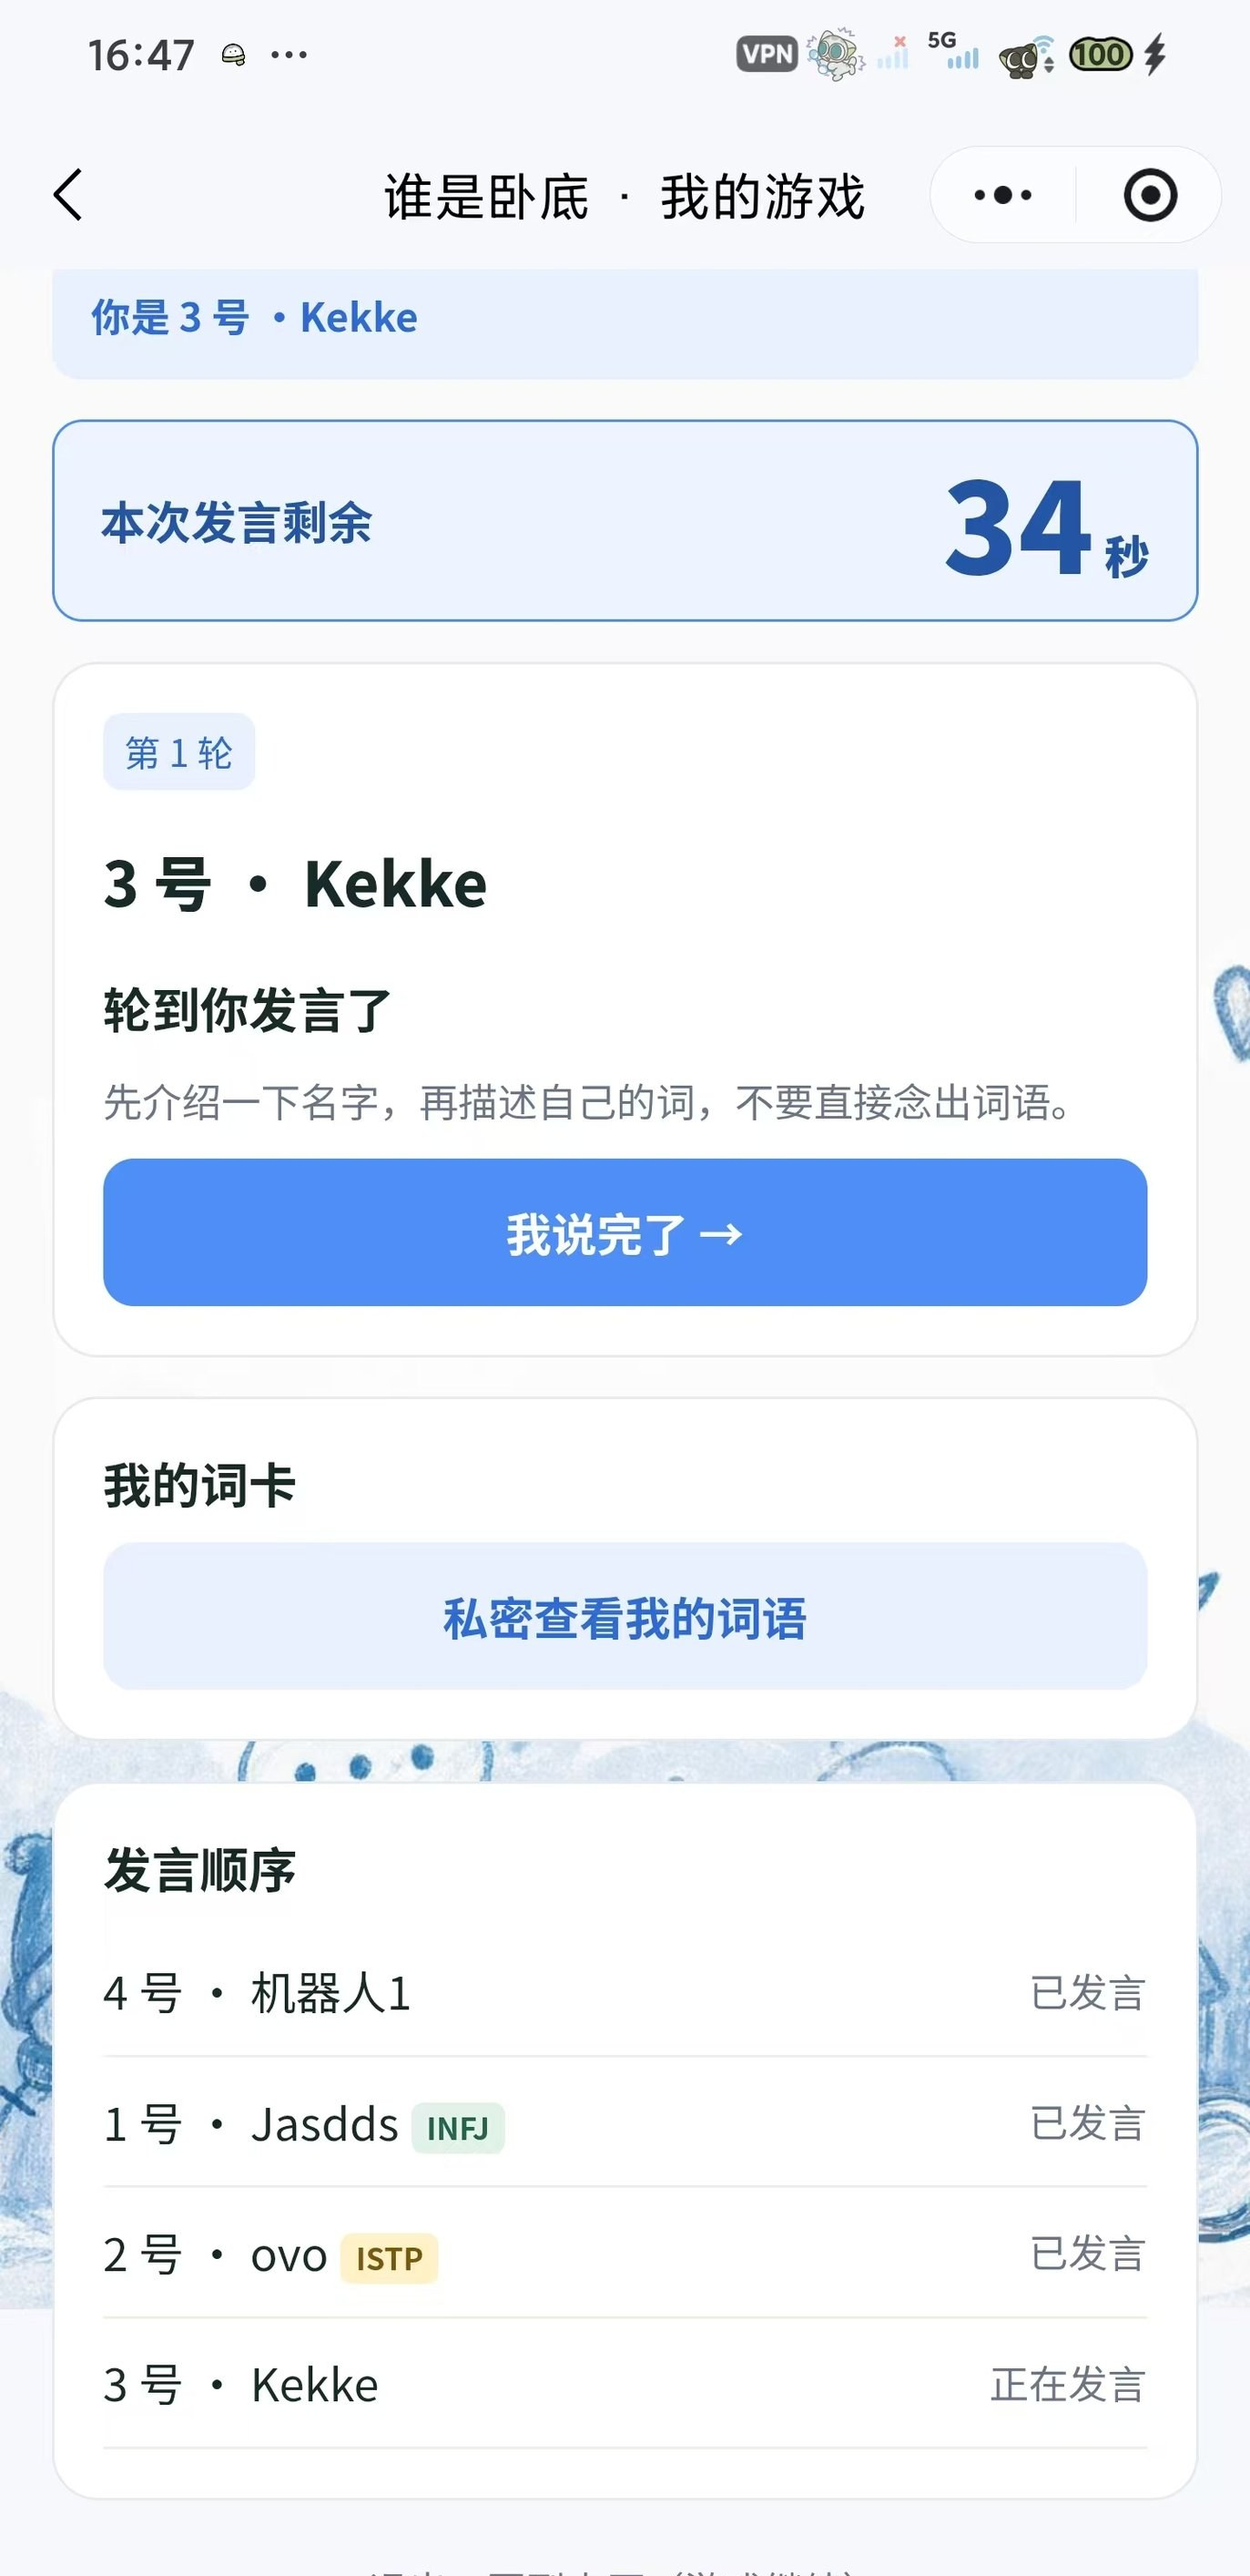
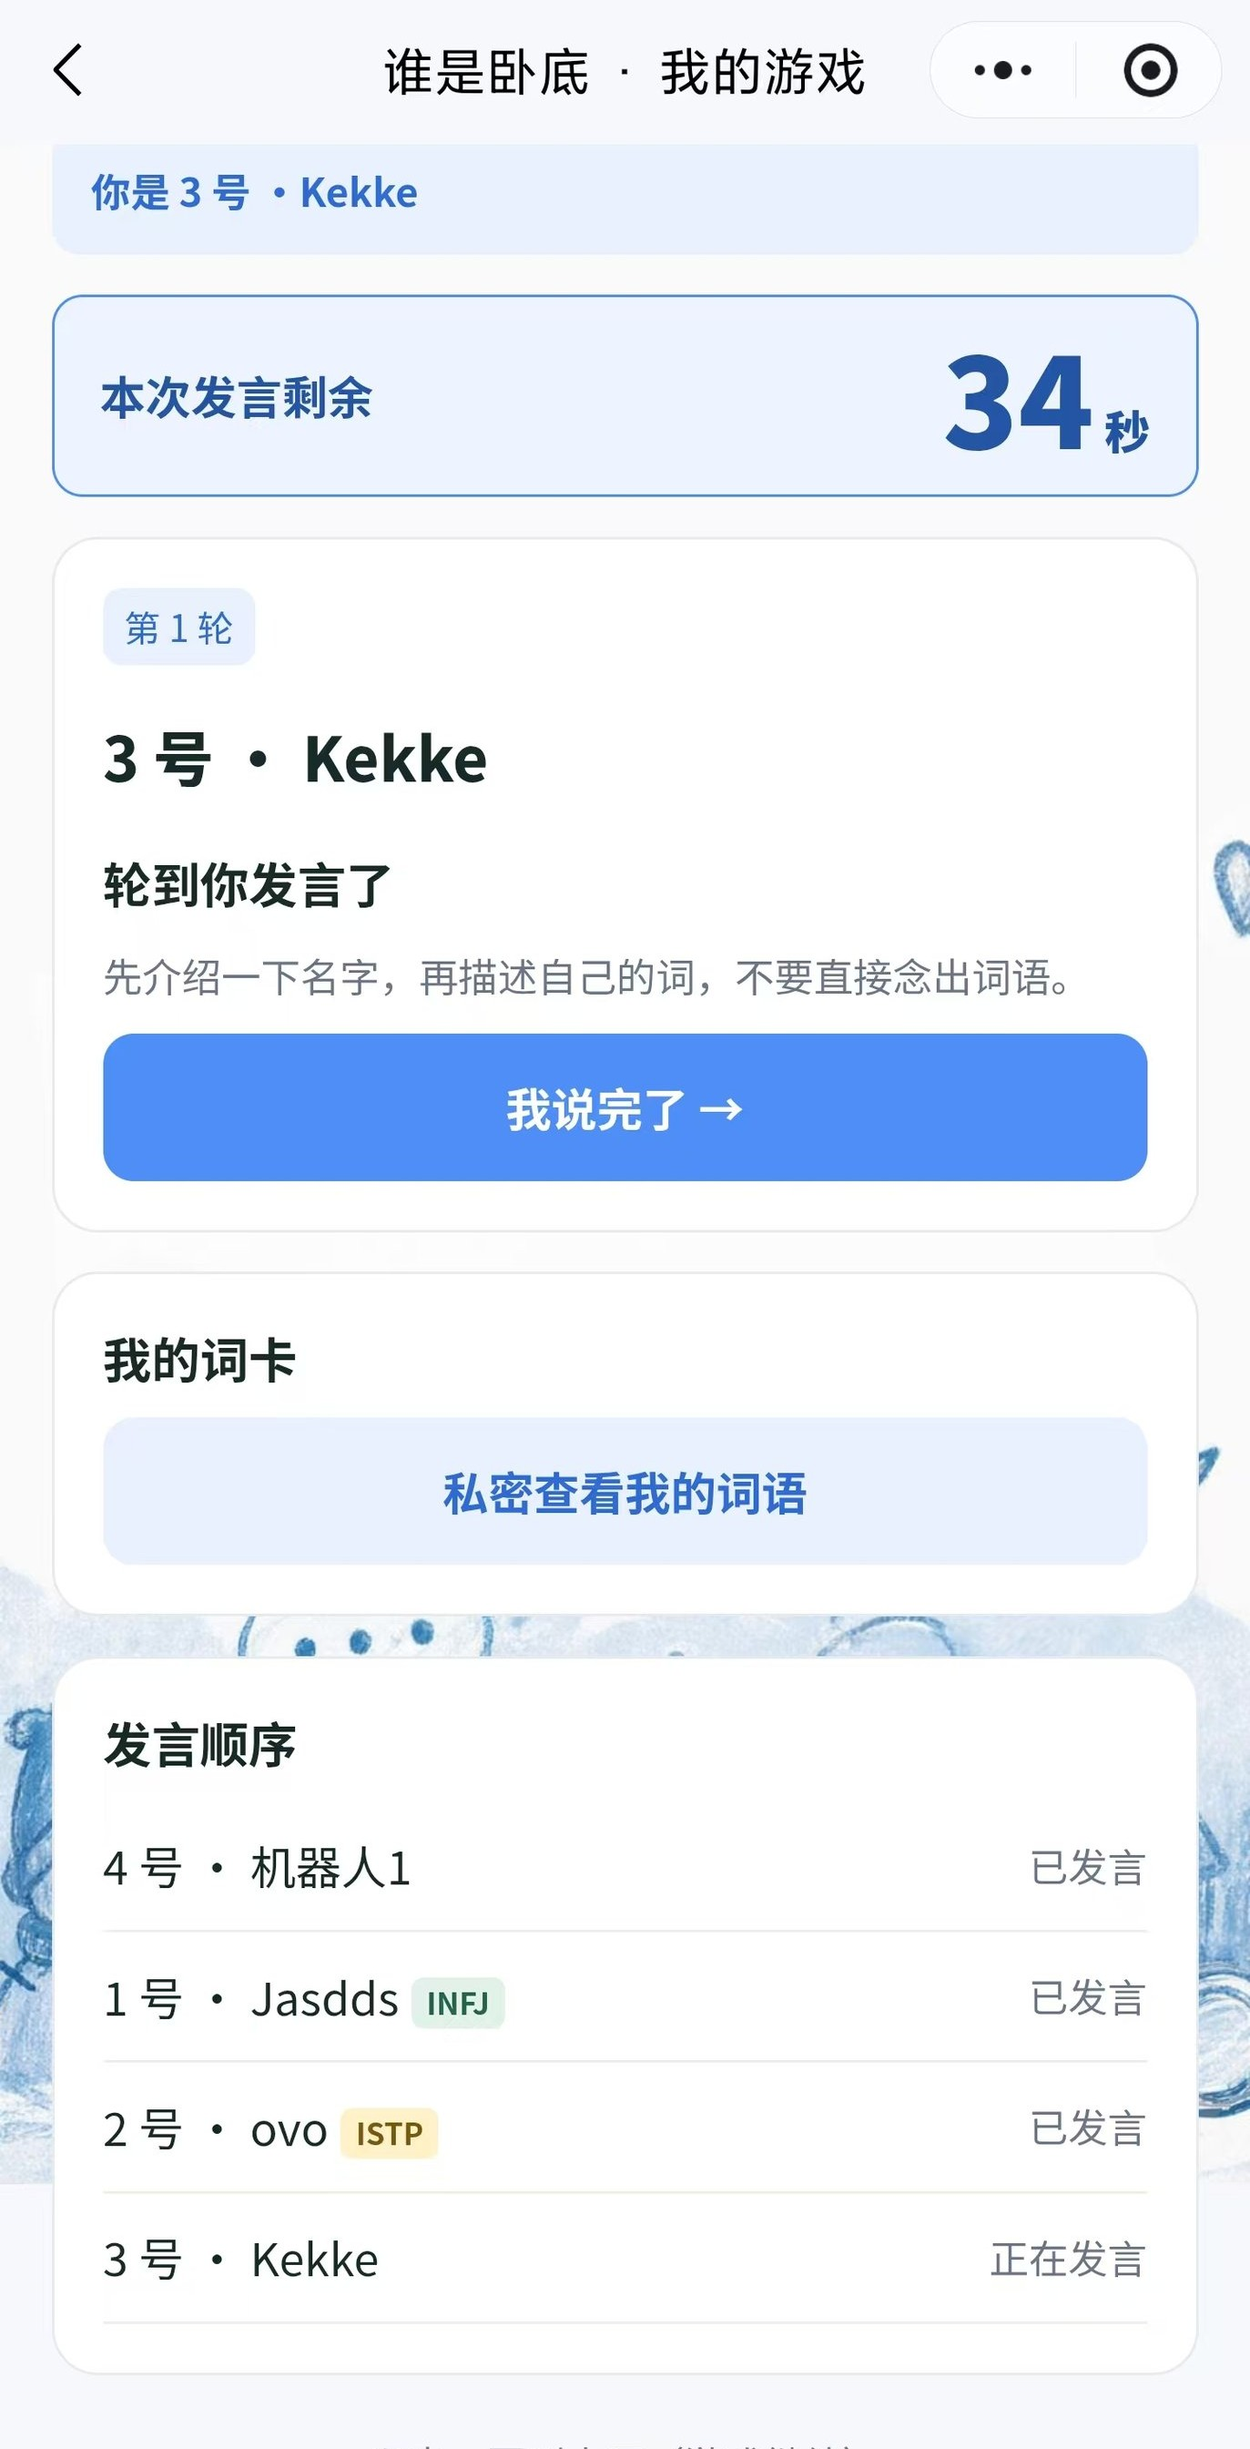
fix: no auto-open on load, cropped status bar, larger viewer

diff --git a/index.html b/index.html
@@ -268,8 +268,8 @@
   </footer>
 
   <!-- Game screenshot viewer -->
-  <div id="game-modal" class="fixed inset-0 z-50 hidden items-center justify-center bg-slate-900/60 p-4 backdrop-blur-sm" role="dialog" aria-modal="true" aria-labelledby="game-modal-title">
-    <div class="mx-auto flex max-h-[92vh] w-full max-w-3xl flex-col overflow-hidden rounded-3xl border border-blue-100 bg-white shadow-2xl">
+  <div id="game-modal" class="fixed inset-0 z-50 hidden items-center justify-center bg-slate-900/60 p-3 backdrop-blur-sm sm:p-6" role="dialog" aria-modal="true" aria-labelledby="game-modal-title">
+    <div class="mx-auto flex max-h-[94vh] w-full max-w-6xl flex-col overflow-hidden rounded-3xl border border-blue-100 bg-white shadow-2xl">
       <div class="flex items-start justify-between gap-4 border-b border-blue-100 px-6 py-4">
         <div>
           <h3 id="game-modal-title" class="cursor-pointer text-lg font-bold text-slate-800 transition hover:text-cyan-700"></h3>
@@ -278,7 +278,7 @@
         <button id="game-modal-close" type="button" aria-label="Close"
                 class="flex h-9 w-9 flex-none items-center justify-center rounded-full border border-blue-100 text-slate-500 transition hover:border-cyan-200 hover:text-cyan-700 focus:outline-none focus-visible:ring-4 focus-visible:ring-cyan-100">✕</button>
       </div>
-      <div id="game-modal-body" class="grid gap-4 overflow-y-auto p-6 sm:grid-cols-2"></div>
+      <div id="game-modal-body" class="grid gap-5 overflow-y-auto overscroll-contain p-4 sm:grid-cols-2 sm:p-6"></div>
     </div>
   </div>
 
@@ -928,9 +928,10 @@
       renderAll()
 
       // Deep link: ?game=0 opens that game's screenshots (useful for sharing).
-      const requestedGame = Number(new URLSearchParams(window.location.search).get('game'))
-      if (Number.isInteger(requestedGame) && requestedGame >= 0 && requestedGame < t().howto.games.length) {
-        toggleGame(requestedGame)
+      const gameParam = new URLSearchParams(window.location.search).get('game')
+      if (gameParam !== null && /^\d+$/.test(gameParam)) {
+        const requestedGame = Number(gameParam)
+        if (requestedGame >= 0 && requestedGame < t().howto.games.length) toggleGame(requestedGame)
       }
 
       // Re-align hash targets once the Tailwind CDN stylesheet has applied.
